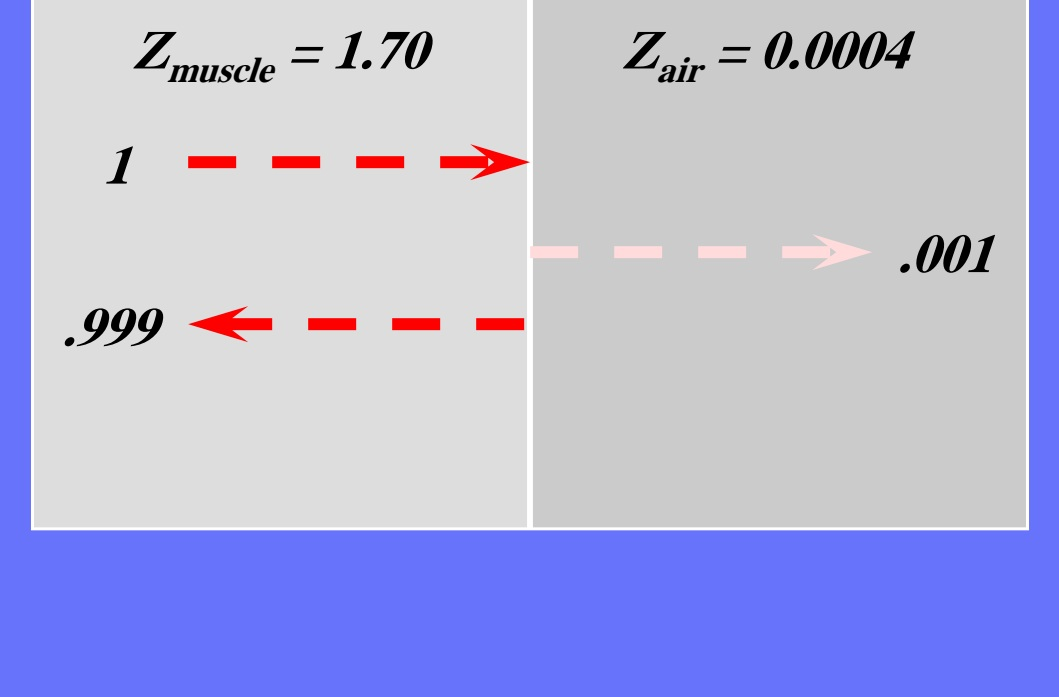
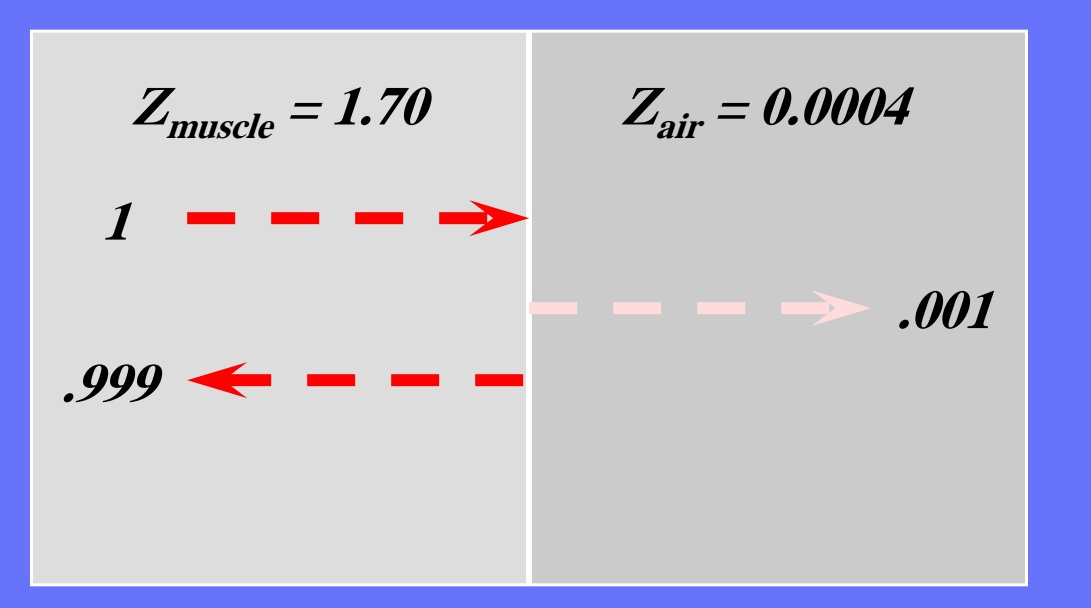
fix: refine ultrasound figures and remove apron duplicate

diff --git a/content/ch07_sono.py b/content/ch07_sono.py
@@ -87,7 +87,7 @@ BLOCKS = [
     {"type": "p", "text": "با عبور موج از بافت، شدت آن بر اثر جذب (تبدیل بخشی از انرژی به گرما)، پراکندگی ([[Scatter]]) و بازتاب کاهش مییابد؛ شکست نیز مسیر انتشار را تغییر میدهد. در سونوگرافی، تصویر عمدتاً از پژواکهای بازگشتی ساخته میشود.", "src": f"{A} ص۱۳"},
     {"type": "key", "text": "برای تشکیل تصویر، موج باید از مرز بافتها بازتاب یابد و دوباره به پروب برسد. مقدار بازتاب به اختلاف امپدانس صوتی دو سوی مرز و زاویهٔ تابش بستگی دارد؛ در برخورد عمودی، اثر اختلاف امپدانس را با رابطههای این بخش محاسبه میکنیم.", "src": f"{A} ص۱۳ تا ص۱۵"},
     {"type": "h3", "text": "عامل اول: امپدانس صوتی"},
-    {"type": "formula", "tex": "Z = \rho \times C", "name": "امپدانس صوتی ([[Acoustic Impedance]])",
+    {"type": "formula", "tex": "Z = \\rho \\times C", "name": "امپدانس صوتی ([[Acoustic Impedance]])",
      "legend": ["[[Z]] = چگالی بافت × سرعت صوت در بافت", "[[ρ]]: چگالی؛ [[C]]: سرعت صوت",
                 "یکای SI: [[1 Rayl = 1 kg·m^-2·s^-1]]؛ اعداد نمونهها بر حسب [[MRayl]] هستند."],
      "src": f"{A} ص۱۳"},

diff --git a/content/ch06_protection.py b/content/ch06_protection.py
@@ -69,12 +69,7 @@ BLOCKS = [
         "کارکنان و پرتوکاران باید از تشعشع پراکنده مستقیم با روپوشهای محافظ یا موانع محافظ کل بدن با حداقل ضخامت [[0.25 mm]] معادل سرب حفاظت شوند.",
         "بیمارانی که نمیتوانند از اتاق خارج شوند باید از تشعشع پراکنده مستقیم با حفاظ معادل [[0.25 mm]] سرب حفاظت شوند و طوری قرار داده شوند که حداقل [[2 m]] از لامپ اشعه ایکس و گیرنده تصویر فاصله داشته باشند.",
         "به منظور حفاظت از گنادها، استفاده از حفاظی با حداقل ضخامت [[0.5 mm]] سرب توصیه میشود.",
-    ], "src": f"{C} ص۸۱ تا ص۸۳"},    {"type": "figure",
-     "file": 'images/fig/fig06_lead_apron.jpg',
-     "width": '58%',
-     "caption": 'شکل — روپوش و دستکش سربی: کارکنان و بیمارانی که باید در اتاق بمانند، با حداقل [[0.25 mm]] معادل سرب حفاظت می\u200cشوند.',
-     "src": 'اسلایدهای دکتر افضلی\u200cپور — ص۱۰۴'
-     },
+    ], "src": f"{C} ص۸۱ تا ص۸۳"},
 
     {"type": "bullets", "items": [
         "موارد استثنا: قرار گرفتن گنادها در میدان تشخیصی؛ مداخله حفاظ در روش تشخیص.",

diff --git a/tools/attach_figures.py b/tools/attach_figures.py
@@ -88,10 +88,6 @@ PLAN: dict[int, list[tuple[str, list[dict]]]] = {
             file="images/fig/fig06_three_principles.jpg", width="74%",
             caption="شکل — سه اصل کاهش پرتوگیری خارجی: کاهش زمان، افزایش فاصله و استفاده از حفاظ ([[Time / Distance / Shielding]]).",
             src="اسلایدهای دکتر افضلیپور — ص۸۹")]),
-        ("وضعیت همه افراد حاضر طوری باشد", [dict(
-            file="images/fig/fig06_lead_apron.jpg", width="58%",
-            caption="شکل — رویوش و دستکش سربی: کارکنان و بیمارانی که باید در اتاق بمانند، با حداقل [[0.25 mm]] معادل سرب حفاظت میشوند.",
-            src="اسلایدهای دکتر افضلیپور — ص۱۰۴")]),
         ("وسایل نگهدارنده میتواند شامل وسایل محدودکننده", [dict(
             file="images/fig/fig06_scatter_position.jpg", width="54%",
             caption="شکل — پرتوهای پراکنده و موقعیت کارکنان (A و B): نگهدارنده بیمار باید در زاویه [[90]] درجه نسبت به شعاع پرتو اولیه بایستد تا پرتوگیری به کمترین مقدار برسد.",

diff --git a/tools/audit_physics.py b/tools/audit_physics.py
@@ -101,6 +101,14 @@ def main() -> int:
     fig_place = load_module("fig_place", "content/fig_place.py")
     if "images/fig/slide06_afzalipour_p105_0.jpg" not in fig_place.FIG_DROP:
         fail("redundant protection image has not been removed")
+    apron_path = "images/fig/fig06_lead_apron.jpg"
+    if any(b.get("type") == "figure" and b.get("file") == apron_path
+           for b in protection.BLOCKS):
+        fail("orphaned apron image remains in the protection chapter")
+    attach_figures = load_module("attach_figures", "tools/attach_figures.py")
+    if any(fig.get("file") == apron_path
+           for _anchor, figures in attach_figures.PLAN.get(6, []) for fig in figures):
+        fail("figure helper would reinsert the redundant apron image")
 
     print("فیزیک سونوگرافی: R/T، درصدها، اعداد مثالها، شکلها و جدول لایهها ✓")
     print(f"محاسبهها: عضله/هوا R={muscle_r*100:.3f}%؛ چربی/کلیه R={fat_kidney_r*100:.2f}% ✓")
